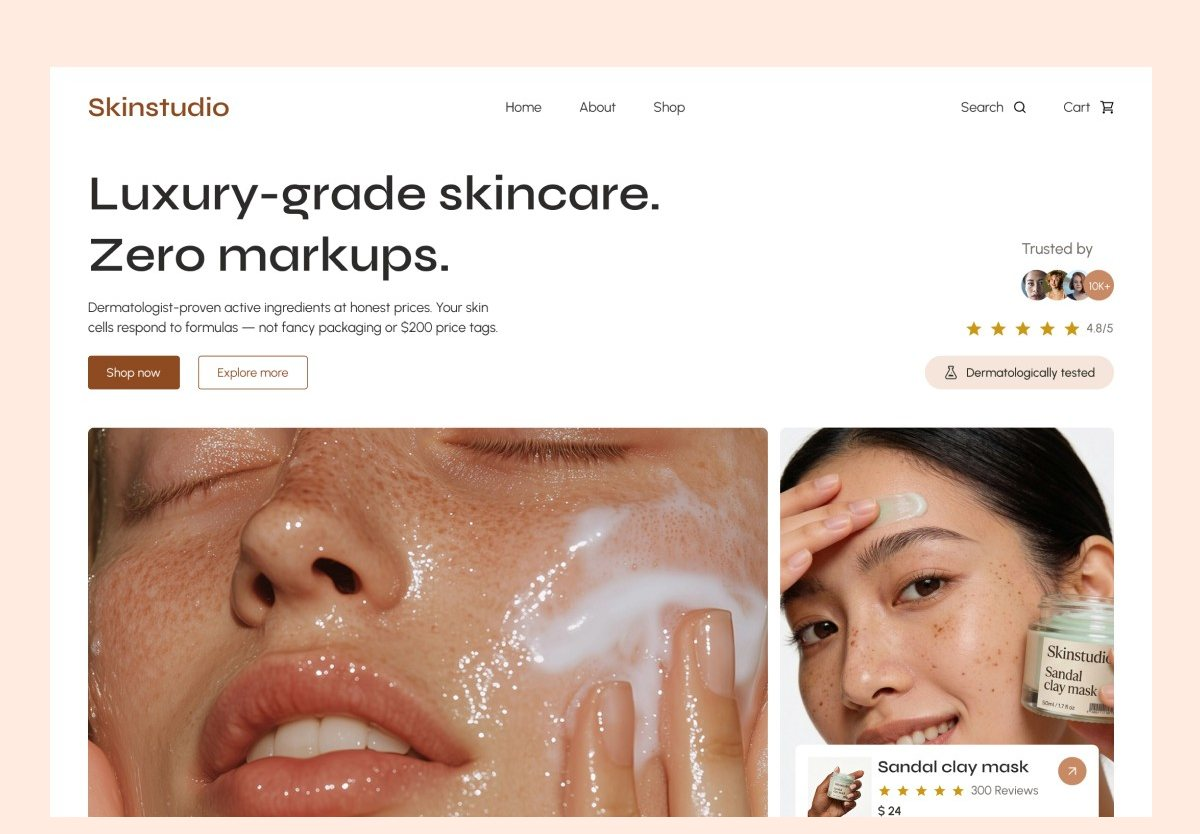
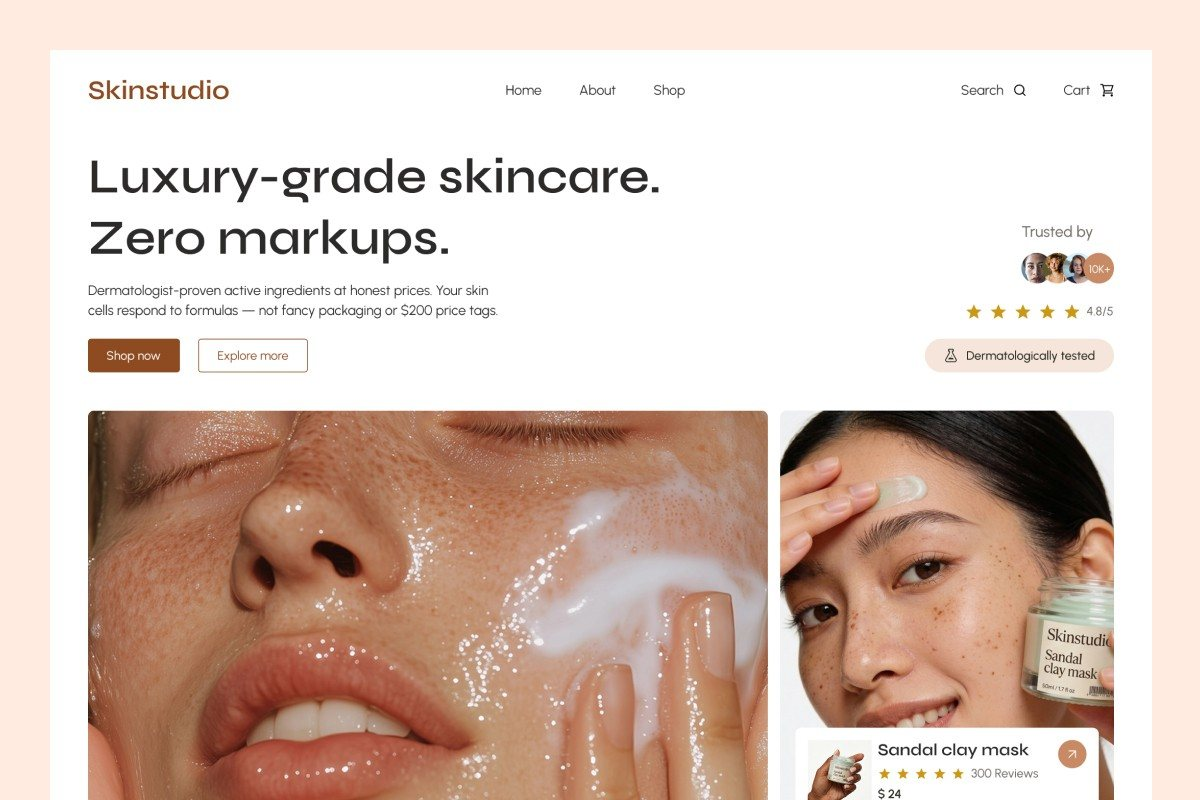
Work: show the Skinstudio cover as-is, edge to edge
Use the original 3:2 Skinstudio image without the added peach strips;
it fills the 1.44:1 cover box with only ~2% of its own peach border
trimmed at each side.

Claude-Session: https://claude.ai/code/session_01KufLhXJVNwhHEy4nRF6nds

diff --git a/index.html b/index.html
@@ -6,8 +6,8 @@
   <title>Fatima Lari — UX/UI Designer</title>
   <meta name="description" content="Fatima Lari is a UX/UI designer based in Debrecen, Hungary.">
   <link rel="preload" href="fonts/poppins-latin-500-normal.woff2" as="font" type="font/woff2" crossorigin>
-  <link rel="stylesheet" href="css/tokens.css?v=48">
-  <link rel="stylesheet" href="css/main.css?v=48">
+  <link rel="stylesheet" href="css/tokens.css?v=49">
+  <link rel="stylesheet" href="css/main.css?v=49">
   <script>
     /* Show the preloader once per visit, and never for reduced-motion users */
     (function () {
@@ -19,11 +19,11 @@
     /* Lets iOS Safari show :active (tap) states */
     document.addEventListener("touchstart", function () {}, { passive: true });
   </script>
-  <script src="js/preloader.js?v=48" defer></script>
-  <script src="js/vendor/gsap.min.js?v=48" defer></script>
-  <script src="js/vendor/ScrollTrigger.min.js?v=48" defer></script>
-  <script src="js/vendor/SplitText.min.js?v=48" defer></script>
-  <script src="js/text-reveal.js?v=48" defer></script>
+  <script src="js/preloader.js?v=49" defer></script>
+  <script src="js/vendor/gsap.min.js?v=49" defer></script>
+  <script src="js/vendor/ScrollTrigger.min.js?v=49" defer></script>
+  <script src="js/vendor/SplitText.min.js?v=49" defer></script>
+  <script src="js/text-reveal.js?v=49" defer></script>
 </head>
 <body>
   <div class="preloader" aria-hidden="true">
@@ -90,7 +90,7 @@
             <div class="work-card__media work-card__media--wide">
               <picture>
                 <source srcset="images/projects/skinstudio.webp" type="image/webp">
-                <img src="images/projects/skinstudio.jpg" width="1200" height="834" loading="lazy" decoding="async"
+                <img src="images/projects/skinstudio.jpg" width="1200" height="800" loading="lazy" decoding="async"
                      alt="Skinstudio skincare ecommerce homepage: “Luxury-grade skincare. Zero markups.” with product photography">
               </picture>
             </div>
